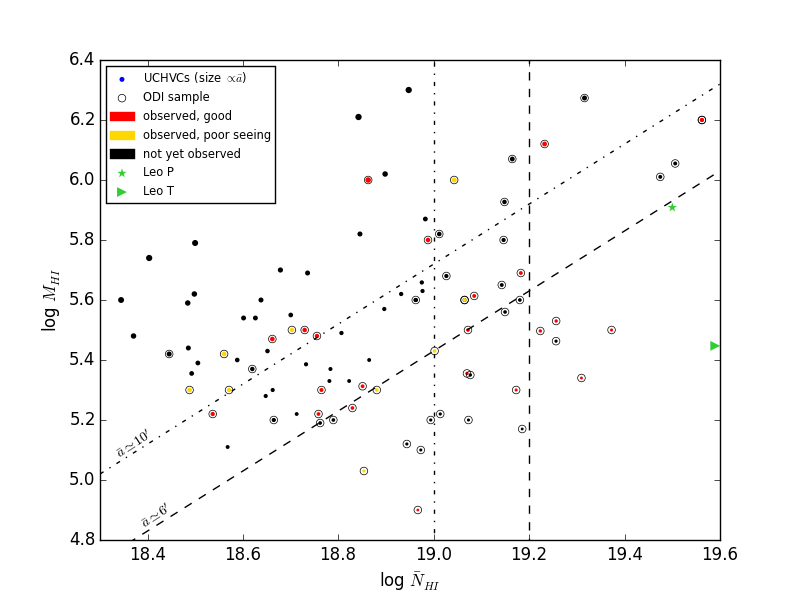
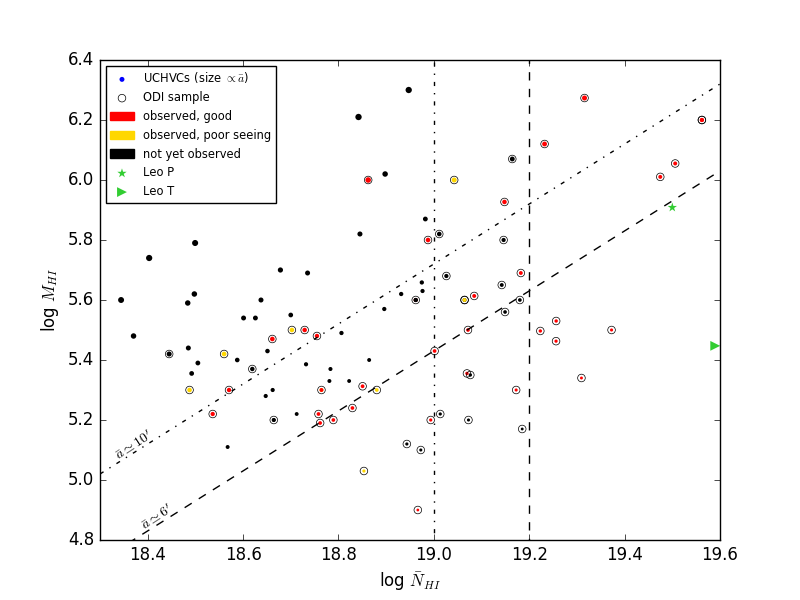
update uchvc-db

diff --git a/uchvc-db.md b/uchvc-db.md
@@ -5,23 +5,22 @@ title: uchvc-db
 <table>
 <tr><td>Name</td><td>Season</td><td>Observed</td><td>RA</td><td>Dec</td><td>cz</td><td>abar</td><td>log MHI</td><td>log NHI</td></tr>
 <tr class="notobs"><td><a href="/uchvc-db/agc102992">AGC102992</a></td><td>Fall</td><td>no</td><td>00h52m06.2s</td><td>+29d12m04s</td><td> -177</td><td>15.49</td><td> 5.48</td><td> 18.37</td></tr>
-<tr class="planobs"><td><a href="/uchvc-db/agc102994">AGC102994</a></td><td>Fall</td><td>planned</td><td>00h54m31.6s</td><td>+29d24m02s</td><td> -290</td><td> 5.48</td><td> 5.20</td><td> 18.99</td></tr>
+<tr class="yesobs"><td><a href="/uchvc-db/agc102994">AGC102994</a></td><td>Fall</td><td>complete</td><td>00h54m31.6s</td><td>+29d24m02s</td><td> -290</td><td> 5.48</td><td> 5.20</td><td> 18.99</td></tr>
 <tr class="notobs"><td><a href="/uchvc-db/agc103417">AGC103417</a></td><td>Fall</td><td>no</td><td>00h05m54.3s</td><td>+31d20m14s</td><td> -128</td><td>20.12</td><td> 5.74</td><td> 18.40</td></tr>
 <tr class="notobs"><td><a href="/uchvc-db/agc113843">AGC113843</a></td><td>Fall</td><td>no</td><td>01h10m35.2s</td><td>+25d06m01s</td><td>   84</td><td>11.66</td><td> 5.36</td><td> 18.49</td></tr>
 <tr class="notobs"><td><a href="/uchvc-db/agc114116">AGC114116</a></td><td>Fall</td><td>no</td><td>01h49m52.1s</td><td>+29d26m00s</td><td> -325</td><td>21.54</td><td> 5.97</td><td> 18.57</td></tr>
 <tr class="notobs"><td><a href="/uchvc-db/agc114117">AGC114117</a></td><td>Fall</td><td>no</td><td>01h50m31.4s</td><td>+28d22m59s</td><td> -317</td><td>15.72</td><td> 6.02</td><td> 18.90</td></tr>
 <tr class="notobs"><td><a href="/uchvc-db/agc114574">AGC114574</a></td><td>Fall</td><td>no</td><td>01h17m03.4s</td><td>+15d55m48s</td><td> -273</td><td> 7.75</td><td> 5.22</td><td> 18.71</td></tr>
-<tr class="planobs"><td><a href="/uchvc-db/agc122834">AGC122834</a></td><td>Fall</td><td>planned</td><td>02h03m48.8s</td><td>+29d13m13s</td><td>   49</td><td>10.58</td><td> 5.93</td><td> 19.15</td></tr>
-<tr class="planobs"><td><a href="/uchvc-db/agc122835">AGC122835</a></td><td>Fall</td><td>planned</td><td>02h05m35.5s</td><td>+29d13m56s</td><td>   29</td><td> 5.48</td><td> 5.46</td><td> 19.26</td></tr>
+<tr class="yesobs"><td><a href="/uchvc-db/agc122834">AGC122834</a></td><td>Fall</td><td>complete</td><td>02h03m48.8s</td><td>+29d13m13s</td><td>   49</td><td>10.58</td><td> 5.93</td><td> 19.15</td></tr>
+<tr class="yesobs"><td><a href="/uchvc-db/agc122835">AGC122835</a></td><td>Fall</td><td>complete</td><td>02h05m35.5s</td><td>+29d13m56s</td><td>   29</td><td> 5.48</td><td> 5.46</td><td> 19.26</td></tr>
 <tr class="notobs"><td><a href="/uchvc-db/agc122836">AGC122836</a></td><td>Fall</td><td>no</td><td>02h52m29.7s</td><td>+26d26m30s</td><td> -135</td><td>20.86</td><td> 6.21</td><td> 18.84</td></tr>
 <tr class="yesobs"><td><a href="/uchvc-db/agc174540">AGC174540</a></td><td>Fall</td><td>complete</td><td>07h45m59.9s</td><td>+14d58m37s</td><td>  162</td><td> 7.75</td><td> 5.69</td><td> 19.18</td></tr>
 <tr class="notobs"><td><a href="/uchvc-db/agc174763">AGC174763</a></td><td>Fall</td><td>no</td><td>07h55m27.1s</td><td>+24d41m43s</td><td>  156</td><td>13.27</td><td> 5.82</td><td> 18.85</td></tr>
-<tr class="planobs"><td><a href="/uchvc-db/agc174764">AGC174764</a></td><td>Fall</td><td>planned</td><td>07h56m14.8s</td><td>+25d09m00s</td><td>  175</td><td> 7.07</td><td> 5.19</td><td> 18.76</td></tr>
+<tr class="yesobs"><td><a href="/uchvc-db/agc174764">AGC174764</a></td><td>Fall</td><td>complete</td><td>07h56m14.8s</td><td>+25d09m00s</td><td>  175</td><td> 7.07</td><td> 5.19</td><td> 18.76</td></tr>
 <tr class="notobs"><td><a href="/uchvc-db/agc189054">AGC189054</a></td><td>Fall</td><td>no</td><td>08h25m46.7s</td><td>+25d11m28s</td><td>  173</td><td>15.72</td><td> 5.62</td><td> 18.50</td></tr>
 <tr class="yesobs"><td><a href="/uchvc-db/agc198511">AGC198511</a></td><td>Fall</td><td>complete</td><td>09h30m13.2s</td><td>+24d12m17s</td><td>  152</td><td> 6.93</td><td> 5.24</td><td> 18.83</td></tr>
 <tr class="yesobs"><td><a href="/uchvc-db/agc198606">AGC198606</a></td><td>Fall</td><td>complete</td><td>09h30m05.5s</td><td>+16d39m03s</td><td>   53</td><td> 9.00</td><td> 6.20</td><td> 19.56</td></tr>
 <tr class="planobs"><td><a href="/uchvc-db/agc208315">AGC208315</a></td><td>Spring</td><td>planned</td><td>10h27m01.1s</td><td>+08d47m08s</td><td>  148</td><td>12.25</td><td> 6.07</td><td> 19.16</td></tr>
-<tr class="planobs"><td><a href="/uchvc-db/agc208524">AGC208524</a></td><td>Spring</td><td>planned</td><td>10h47m02.5s</td><td>+01d46m31s</td><td>  179</td><td> 5.00</td><td> 5.20</td><td> 19.07</td></tr>
 <tr class="yesobs"><td><a href="/uchvc-db/agc215417">AGC215417</a></td><td>Spring</td><td>complete</td><td>11h40m08.1s</td><td>+15d06m44s</td><td>  216</td><td> 9.49</td><td> 5.22</td><td> 18.54</td></tr>
 <tr class="planobs"><td><a href="/uchvc-db/agc219214">AGC219214</a></td><td>Spring</td><td>planned</td><td>11h09m29.8s</td><td>+05d26m01s</td><td>  142</td><td> 5.29</td><td> 5.12</td><td> 18.94</td></tr>
 <tr class="notobs"><td><a href="/uchvc-db/agc219274">AGC219274</a></td><td>Spring</td><td>no</td><td>11h21m19.6s</td><td>+06d21m32s</td><td>  143</td><td>20.49</td><td> 6.30</td><td> 18.95</td></tr>
@@ -60,7 +59,7 @@ title: uchvc-db
 <tr class="yesobs"><td><a href="/uchvc-db/agc258242">AGC258242</a></td><td>Spring</td><td>complete</td><td>15h10m00.6s</td><td>+11d11m27s</td><td>  207</td><td> 7.35</td><td> 5.22</td><td> 18.76</td></tr>
 <tr class="yesobs"><td><a href="/uchvc-db/agc258459">AGC258459</a></td><td>Spring</td><td>complete</td><td>15h04m41.3s</td><td>+06d12m59s</td><td>  149</td><td>10.49</td><td> 5.50</td><td> 18.73</td></tr>
 <tr class="planobs"><td><a href="/uchvc-db/agc268067">AGC268067</a></td><td>Spring</td><td>planned</td><td>16h05m29.4s</td><td>+16d09m12s</td><td>  158</td><td> 7.75</td><td> 5.65</td><td> 19.14</td></tr>
-<tr class="poorobs"><td><a href="/uchvc-db/agc268069">AGC268069</a></td><td>Spring</td><td>poor seeing in g?</td><td>16h05m32.6s</td><td>+14d59m20s</td><td>  132</td><td> 7.07</td><td> 5.43</td><td> 19.00</td></tr>
+<tr class="yesobs"><td><a href="/uchvc-db/agc268069">AGC268069</a></td><td>Spring</td><td>complete</td><td>16h05m32.6s</td><td>+14d59m20s</td><td>  132</td><td> 7.07</td><td> 5.43</td><td> 19.00</td></tr>
 <tr class="notobs"><td><a href="/uchvc-db/agc268070">AGC268070</a></td><td>Spring</td><td>no</td><td>16h07m07.0s</td><td>+15d08m31s</td><td>  160</td><td>12.37</td><td> 5.54</td><td> 18.63</td></tr>
 <tr class="planobs"><td><a href="/uchvc-db/agc268071">AGC268071</a></td><td>Spring</td><td>planned</td><td>16h12m36.8s</td><td>+14d12m26s</td><td>  109</td><td> 9.17</td><td> 5.80</td><td> 19.15</td></tr>
 <tr class="notobs"><td><a href="/uchvc-db/agc268072">AGC268072</a></td><td>Spring</td><td>no</td><td>16h17m45.3s</td><td>+14d10m36s</td><td>  108</td><td>12.00</td><td> 5.87</td><td> 18.98</td></tr>
@@ -77,15 +76,15 @@ title: uchvc-db
 <tr class="yesobs"><td><a href="/uchvc-db/agc333604">AGC333604</a></td><td>Fall</td><td>complete</td><td>23h11m23.2s</td><td>+27d56m45s</td><td>   66</td><td> 7.94</td><td> 5.61</td><td> 19.08</td></tr>
 <tr class="notobs"><td><a href="/uchvc-db/agc333613">AGC333613</a></td><td>Fall</td><td>no</td><td>23h56m58.8s</td><td>+29d32m35s</td><td> -333</td><td> 8.06</td><td> 5.11</td><td> 18.57</td></tr>
 <tr class="notobs"><td><a href="/uchvc-db/agc334256">AGC334256</a></td><td>Fall</td><td>no</td><td>23h00m56.4s</td><td>+15d20m14s</td><td> -461</td><td> 9.38</td><td> 5.57</td><td> 18.90</td></tr>
-<tr class="planobs"><td><a href="/uchvc-db/agc334257">AGC334257</a></td><td>Fall</td><td>planned</td><td>23h02m11.3s</td><td>+16d00m48s</td><td> -452</td><td> 6.93</td><td> 5.20</td><td> 18.79</td></tr>
+<tr class="yesobs"><td><a href="/uchvc-db/agc334257">AGC334257</a></td><td>Fall</td><td>complete</td><td>23h02m11.3s</td><td>+16d00m48s</td><td> -452</td><td> 6.93</td><td> 5.20</td><td> 18.79</td></tr>
 <tr class="planobs"><td><a href="/uchvc-db/agc501816">AGC501816</a></td><td>Spring</td><td>planned</td><td>10h05m19.4s</td><td>-00d02m26s</td><td>  109</td><td> 7.00</td><td> 5.60</td><td> 19.18</td></tr>
 <tr class="yesobs"><td><a href="/uchvc-db/agc749140">AGC749140</a></td><td>Fall</td><td>complete</td><td>00h51m16.4s</td><td>+15d11m11s</td><td>   52</td><td> 5.92</td><td> 5.50</td><td> 19.22</td></tr>
 <tr class="notobs"><td><a href="/uchvc-db/agc749141">AGC749141</a></td><td>Fall</td><td>no</td><td>01h02m37.8s</td><td>+16d07m52s</td><td> -308</td><td> 8.94</td><td> 5.28</td><td> 18.65</td></tr>
 <tr class="notobs"><td><a href="/uchvc-db/agc749166">AGC749166</a></td><td>Fall</td><td>no</td><td>01h59m58.7s</td><td>+16d05m25s</td><td>   49</td><td> 9.49</td><td> 5.66</td><td> 18.97</td></tr>
 <tr class="yesobs"><td><a href="/uchvc-db/hi0106+12">HI0106+12</a></td><td>Fall</td><td>complete</td><td>01h06m00.7s</td><td>+12d26m57s</td><td>   84</td><td> 6.00</td><td> 5.36</td><td> 19.07</td></tr>
-<tr class="planobs"><td><a href="/uchvc-db/hi0126+05">HI0126+05</a></td><td>Fall</td><td>planned</td><td>01h26m21.5s</td><td>+05d23m08s</td><td>   59</td><td> 8.12</td><td> 6.06</td><td> 19.51</td></tr>
+<tr class="yesobs"><td><a href="/uchvc-db/hi0126+05">HI0126+05</a></td><td>Fall</td><td>complete</td><td>01h26m21.5s</td><td>+05d23m08s</td><td>   59</td><td> 8.12</td><td> 6.06</td><td> 19.51</td></tr>
 <tr class="notobs"><td><a href="/uchvc-db/hi0810+29">HI0810+29</a></td><td>Fall</td><td>no</td><td>08h10m07.6s</td><td>+28d58m35s</td><td>  181</td><td> 9.00</td><td> 5.30</td><td> 18.66</td></tr>
-<tr class="poorobs"><td><a href="/uchvc-db/hi0932+24">HI0932+24</a></td><td>Fall</td><td>poor seeing</td><td>09h32m08.0s</td><td>+23d37m52s</td><td>  178</td><td>10.00</td><td> 5.30</td><td> 18.57</td></tr>
+<tr class="yesobs"><td><a href="/uchvc-db/hi0932+24">HI0932+24</a></td><td>Fall</td><td>complete</td><td>09h32m08.0s</td><td>+23d37m52s</td><td>  178</td><td>10.00</td><td> 5.30</td><td> 18.57</td></tr>
 <tr class="yesobs"><td><a href="/uchvc-db/hi0959+19">HI0959+19</a></td><td>Spring</td><td>complete</td><td>09h59m11.8s</td><td>+18d55m35s</td><td>   84</td><td>16.00</td><td> 6.00</td><td> 18.86</td></tr>
 <tr class="planobs"><td><a href="/uchvc-db/hi1023+21">HI1023+21</a></td><td>Spring</td><td>planned</td><td>10h23m09.0s</td><td>+20d40m59s</td><td>  -60</td><td> 8.00</td><td> 5.60</td><td> 19.06</td></tr>
 <tr class="yesobs"><td><a href="/uchvc-db/hi1037+21">HI1037+21</a></td><td>Spring</td><td>complete</td><td>10h37m06.6s</td><td>+20d30m58s</td><td>   98</td><td>11.00</td><td> 5.80</td><td> 18.99</td></tr>
@@ -98,9 +97,9 @@ title: uchvc-db
 <tr class="poorobs"><td><a href="/uchvc-db/hi1436+17">HI1436+17</a></td><td>Spring</td><td>poor seeing</td><td>14h35m57.6s</td><td>+17d10m04s</td><td>   30</td><td> 8.00</td><td> 5.60</td><td> 19.06</td></tr>
 <tr class="notobs"><td><a href="/uchvc-db/hi1502+19">HI1502+19</a></td><td>Spring</td><td>no</td><td>15h01m49.8s</td><td>+19d27m01s</td><td>   27</td><td> 9.00</td><td> 5.60</td><td> 18.96</td></tr>
 <tr class="notobs"><td><a href="/uchvc-db/hi1523+17">HI1523+17</a></td><td>Spring</td><td>no</td><td>15h22m59.6s</td><td>+16d42m02s</td><td>    5</td><td> 9.00</td><td> 5.60</td><td> 18.96</td></tr>
-<tr class="planobs"><td><a href="/uchvc-db/hi2033+18">HI2033+18</a></td><td>Fall</td><td>planned</td><td>20h33m00.7s</td><td>+17d35m00s</td><td>   37</td><td> 8.00</td><td> 6.01</td><td> 19.47</td></tr>
+<tr class="yesobs"><td><a href="/uchvc-db/hi2033+18">HI2033+18</a></td><td>Fall</td><td>complete</td><td>20h33m00.7s</td><td>+17d35m00s</td><td>   37</td><td> 8.00</td><td> 6.01</td><td> 19.47</td></tr>
 <tr class="notobs"><td><a href="/uchvc-db/hi2238+02">HI2238+02</a></td><td>Fall</td><td>no</td><td>22h37m47.3s</td><td>+02d21m05s</td><td> -110</td><td> 9.17</td><td> 5.39</td><td> 18.73</td></tr>
-<tr class="planobs"><td><a href="/uchvc-db/hi2314+03">HI2314+03</a></td><td>Fall</td><td>planned</td><td>23h14m16.4s</td><td>+03d23m07s</td><td>   42</td><td>13.00</td><td> 6.27</td><td> 19.32</td></tr>
+<tr class="yesobs"><td><a href="/uchvc-db/hi2314+03">HI2314+03</a></td><td>Fall</td><td>complete</td><td>23h14m16.4s</td><td>+03d23m07s</td><td>   42</td><td>13.00</td><td> 6.27</td><td> 19.32</td></tr>
 <tr class="notobs"><td><a href="/uchvc-db/hi2323+27">HI2323+27</a></td><td>Fall</td><td>no</td><td>23h22m50.6s</td><td>+27d07m18s</td><td>   61</td><td>10.58</td><td> 5.43</td><td> 18.65</td></tr>
 <tr class="yesobs"><td><a href="/uchvc-db/hi2355+25">HI2355+25</a></td><td>Fall</td><td>complete</td><td>23h55m21.4s</td><td>+25d17m26s</td><td>   45</td><td> 7.35</td><td> 5.31</td><td> 18.85</td></tr>
 </table>
